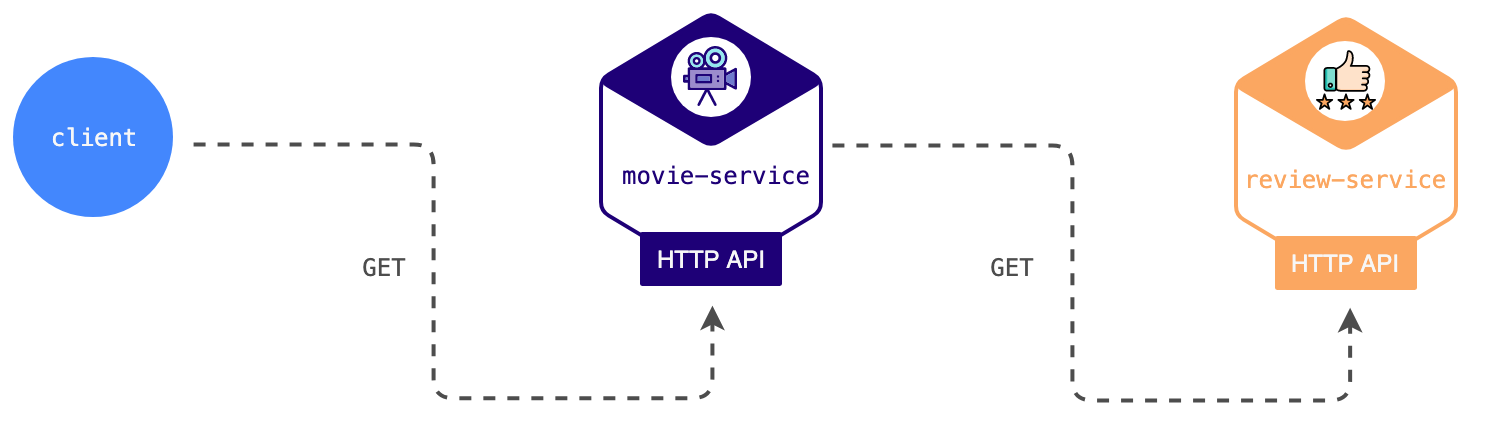
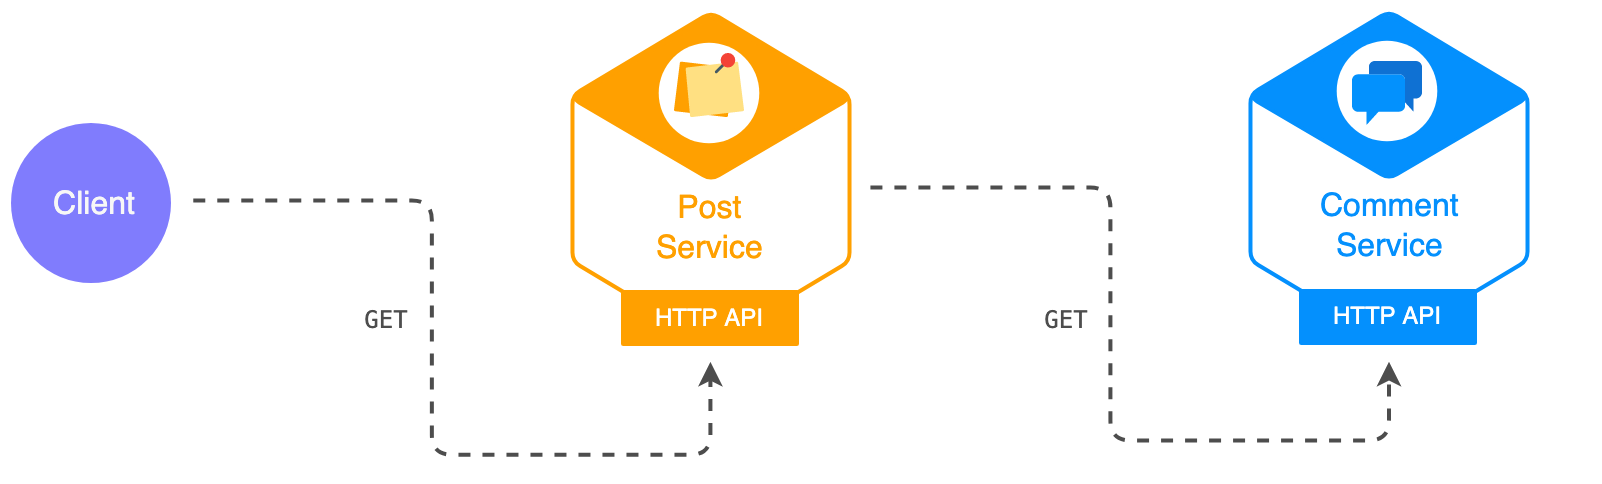
Update diagrams

diff --git a/README.md b/README.md
@@ -233,7 +233,7 @@ As we have multiple containers, we'll use Docker Compose to manage them. With Co
 Have a look at how the services are defined and configured in the [`docker-compose.yml`][repo.docker-compose.yml]. It's pretty standard stuff. What's important to highlight is the fact that labels have been added to the services. Labels are simply metadata that only have meaning for who's using them. The following labels have been defined:
 
 - `ship_logs_with_filebeat`: When set to `true`, indicates that Filebeat will collect the logs produced by the container.
-- `parse_log_event_to_json_object`: The log event will be collected and stored as a string in the `message` property of the Filebeat model. If the events are logged as JSON (which is the case when using the appenders defined above), the value of this label can be set to `true` to make Filebeat to parse the string to a JSON object.
+- `decode_log_as_json_object`: The log event will be collected and stored as a string in the `message` property of the Filebeat model. If the events are logged as JSON (which is the case when using the appenders defined above), the value of this label can be set to `true` to make Filebeat to parse the string to a JSON object.
 
 Both movie and review services will produce logs to the standard output (`stdout`). By default, Docker captures the standard output (and standard error) of all your containers, and writes them in files using the JSON format, using the `json-file` driver. The logs are then stored in files in the `/var/lib/docker/containers` directory. Each log file contains information about only one container.
 
@@ -241,7 +241,7 @@ In the [`filebeat.docker.yml`][repo.filebeat.docker.yml] file, Filebeat is confi
 - Read the Docker logs from the files that match `/var/lib/docker/containers/*/*.log`
 - Enrich the log events with Docker metadata 
 - Drop the log events from the containers that don't have the label `ship_logs_with_filebeat` set to `true`
-- Decode the `message` field as JSON from the log events produced by the containers that have the label `parse_log_event_to_json_object` set to `true`
+- Decode the `message` field as JSON from the log events produced by the containers that have the label `decode_log_as_json_object` set to `true`
 - Send the log events to Logstash which runs on the port `5044`
 
 ```yaml
@@ -321,7 +321,7 @@ If you have Java 11, Maven and Docker configured, you are good to go.
   
   [img.services]: /misc/img/diagrams/services.png
   [img.elastic-stack]: /misc/img/diagrams/elastic-stack.png
-  [img.elastic-stack-docker]: /misc/img/diagrams/services-and-elastic-stack-with-docker.png
+  [img.elastic-stack-docker]: /misc/img/diagrams/services-and-elastic-stack.png
 
   [12factor]: https://12factor.net
   [spring-cloud-sleuth]: https://spring.io/projects/spring-cloud-sleuth
@@ -347,16 +347,5 @@ If you have Java 11, Maven and Docker configured, you are good to go.
 
 ## TODO
 
-- Update Docker diagram: `/var/lib/docker/containers/<container-id>/<container-id>-json.log`
-- Change domain from movie/review to post/comment
-  - https://www.flaticon.com/free-icon/chat_134932#term=comment&page=1&position=12
-  - https://www.flaticon.com/free-icon/chat_134909
-  - https://www.flaticon.com/free-icon/chat_134914#term=comment&page=1&position=18
-  - https://www.flaticon.com/free-icon/post-it_889648#term=post&page=1&position=8
-  - https://www.flaticon.com/free-icon/contract_684930
 - Rename `decode_log_as_json_object` to `parse_log_event_to_json_object`
 - Rename repository to `log-aggregation-spring-boot-elastic-stack`
-
-See: https://medium.com/@bcoste/powerful-logging-with-docker-filebeat-and-elasticsearch-8ad021aecd87
-Attempt to use `log` input
-decode the log field (sub JSON document) if JSONencoded, then maps it's fields to elasticsearch fields
